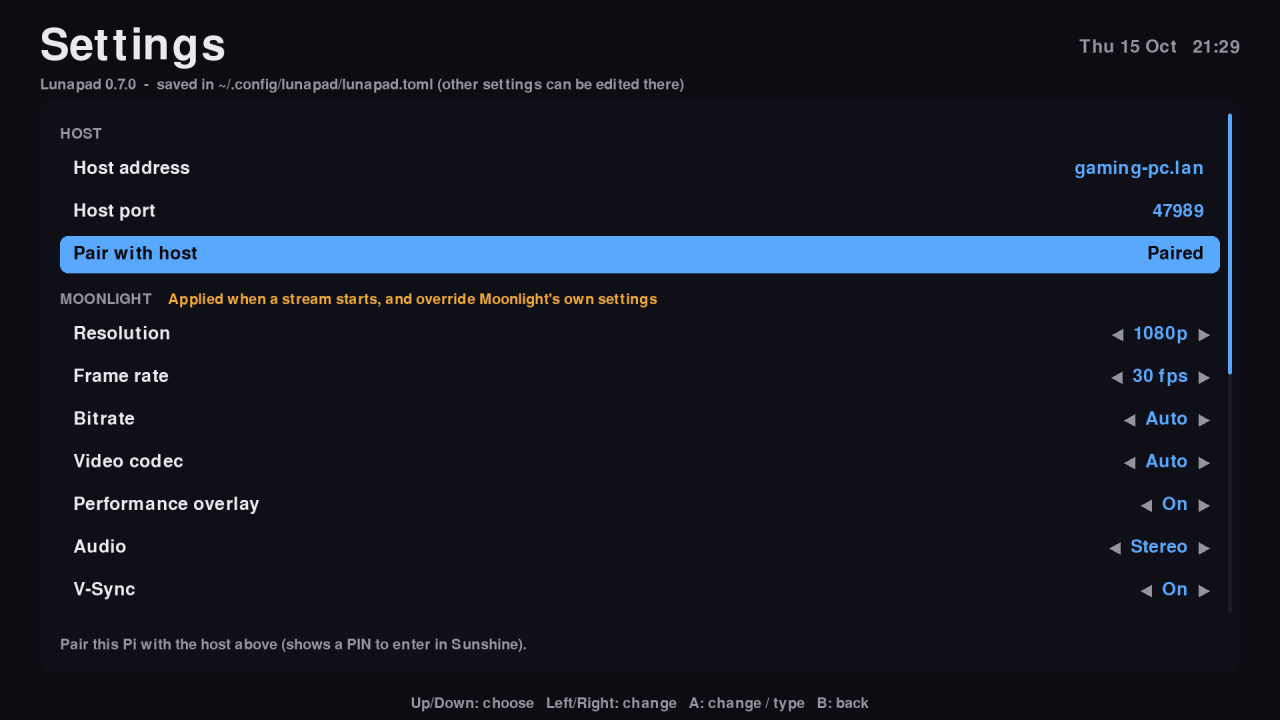
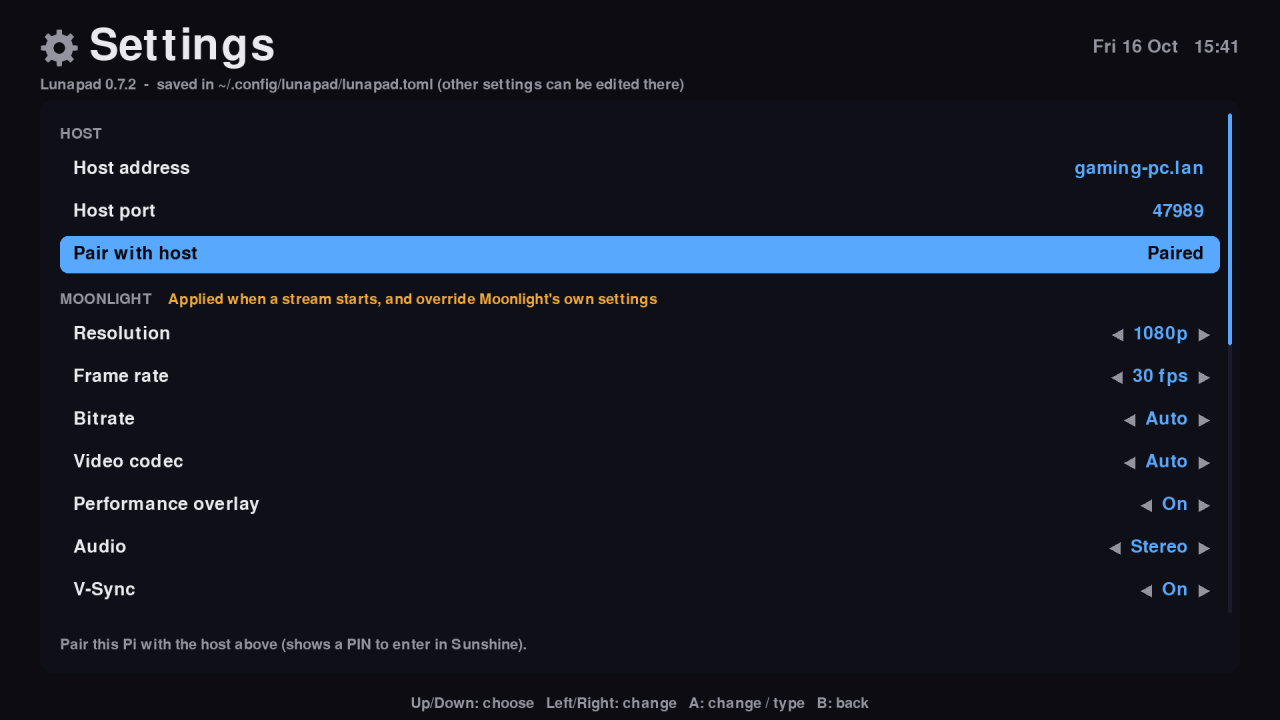
Settings page: grey cog beside the title; README: tile art comes from Sunshine
- A settings cog, drawn in code like the Bluetooth icon, in grey
  (MUTED) beside the Settings page title; screenshots re-rendered
- README: tile images are downloaded from Sunshine on the gaming PC
  (the image set per app there), Lunapad includes no game art, and how
  to change one

Changed region(s): [[0.0312, 0.0306, 0.2188, 0.0917], [0.8438, 0.0306, 0.9688, 0.0917]]

diff --git a/lunapad.py b/lunapad.py
@@ -1,4 +1,4 @@
-import os, sys, re, csv, random, shutil, subprocess, threading, time, json, socket, ipaddress, glob, pygame
+import os, sys, re, csv, math, random, shutil, subprocess, threading, time, json, socket, ipaddress, glob, pygame
 import ssl, uuid, tempfile, http.client, io
 import urllib.request
 import xml.etree.ElementTree as ET
@@ -310,10 +310,35 @@ BAD = THEME["bad"]
 DIVIDER = THEME["divider"]
 
 BLUETOOTH_BLUE = (0, 130, 252)
+SETTINGS_ICON_COLOR = MUTED
 # The Bluetooth symbol as one line through six points, in a box 1 wide x 1 tall:
 # left tip, lower right, bottom, top, upper right, left tip.
 _BLUETOOTH_RUNE = [(0.14, 0.30), (0.92, 0.72), (0.5, 0.96), (0.5, 0.04), (0.92, 0.28), (0.14, 0.70)]
 _BLUETOOTH_ICON_CACHE = {}
+
+_COG_ICON_CACHE = {}
+
+def draw_cog_icon(surface, center, size, color):
+    """A settings cog, `size` px across, centred on `center`: 8 teeth around a
+    ring with a hole. Drawn at 4x and scaled down; cached per size/colour."""
+    key = (size, color)
+    if key not in _COG_ICON_CACHE:
+        ss, teeth = 4, 8
+        big_size = size * ss
+        c = big_size / 2
+        outer, body, hole = big_size * 0.48, big_size * 0.36, big_size * 0.15
+        pitch = 2 * math.pi / teeth
+        pts = []
+        for i in range(teeth):
+            a = i * pitch
+            for r, da in ((body, -0.27), (outer, -0.17), (outer, 0.17), (body, 0.27), (body, 0.5)):
+                pts.append((c + r * math.cos(a + da * pitch), c + r * math.sin(a + da * pitch)))
+        big = pygame.Surface((big_size, big_size), pygame.SRCALPHA)
+        pygame.draw.polygon(big, color, pts)
+        pygame.draw.circle(big, (0, 0, 0, 0), (c, c), hole)  # punch the hole (transparent)
+        _COG_ICON_CACHE[key] = pygame.transform.smoothscale(big, (size, size))
+    icon = _COG_ICON_CACHE[key]
+    surface.blit(icon, icon.get_rect(center=center))
 
 def draw_bluetooth_icon(surface, center, size, color):
     """The Bluetooth symbol, `size` px tall, centred on `center`. Drawn at 4x and
@@ -2215,7 +2240,9 @@ def draw_settings_page(rows, sel, scroll):
     screen.fill(THEME["bg"])
     margin = 60
     title = title_font.render("Settings", True, TEXT)
-    screen.blit(title, (margin, 36))
+    icon_h = round(title.get_height() * 0.8)
+    draw_cog_icon(screen, (margin + icon_h // 2, 36 + title.get_height() // 2), icon_h, SETTINGS_ICON_COLOR)
+    screen.blit(title, (margin + icon_h + 16, 36))
     draw_clock(margin, 36, title.get_height())
     shown_path = cfg.CONFIG_FILE.replace(cfg.HOME, "~", 1)
     note = fit_text(f"{VERSION_TEXT}  -  saved in {shown_path} (other settings can be edited there)",

diff --git a/README.md b/README.md
@@ -18,7 +18,7 @@ A gamepad-only launcher that turns a Raspberry Pi 4 into a TV box for streaming 
 ## Features
 
 - **Dashboard** — one tile per app on the host (from `moonlight-qt list`, cached for when the host is off), plus connected controllers with Bluetooth and battery status
-- **Box art** — each app tile shows its box art from Sunshine, and the Moonlight Window tile shows Moonlight's own icon. Both can be turned off in **Settings → Apps**, which can also hide the Moonlight Window tile altogether
+- **Box art** — each app tile shows the image set for that app in Sunshine. Lunapad downloads it from Sunshine on your gaming PC (the same images Moonlight shows), and doesn't include any game art itself. To change an app's image, edit it in Sunshine (**Applications** → the app → **Image**), then press **Reload Apps**. The Moonlight Window tile shows Moonlight's own icon, from Moonlight's install on the Pi. Both can be turned off in **Settings → Apps**, which can also hide the Moonlight Window tile altogether
 - **Bluetooth page** — list, scan for, pair, connect, disconnect and forget gamepads
 - **Update** — updates Lunapad itself from GitHub (the **Stable** or **Beta** channel, chosen in Settings → Updates), and the Pi's apt packages, with live output. After a system update it offers to remove packages no longer needed (old kernels), showing the list first
 - **Reload Apps** — re-read the host's app list now, instead of waiting for the 10-minute auto-refresh
